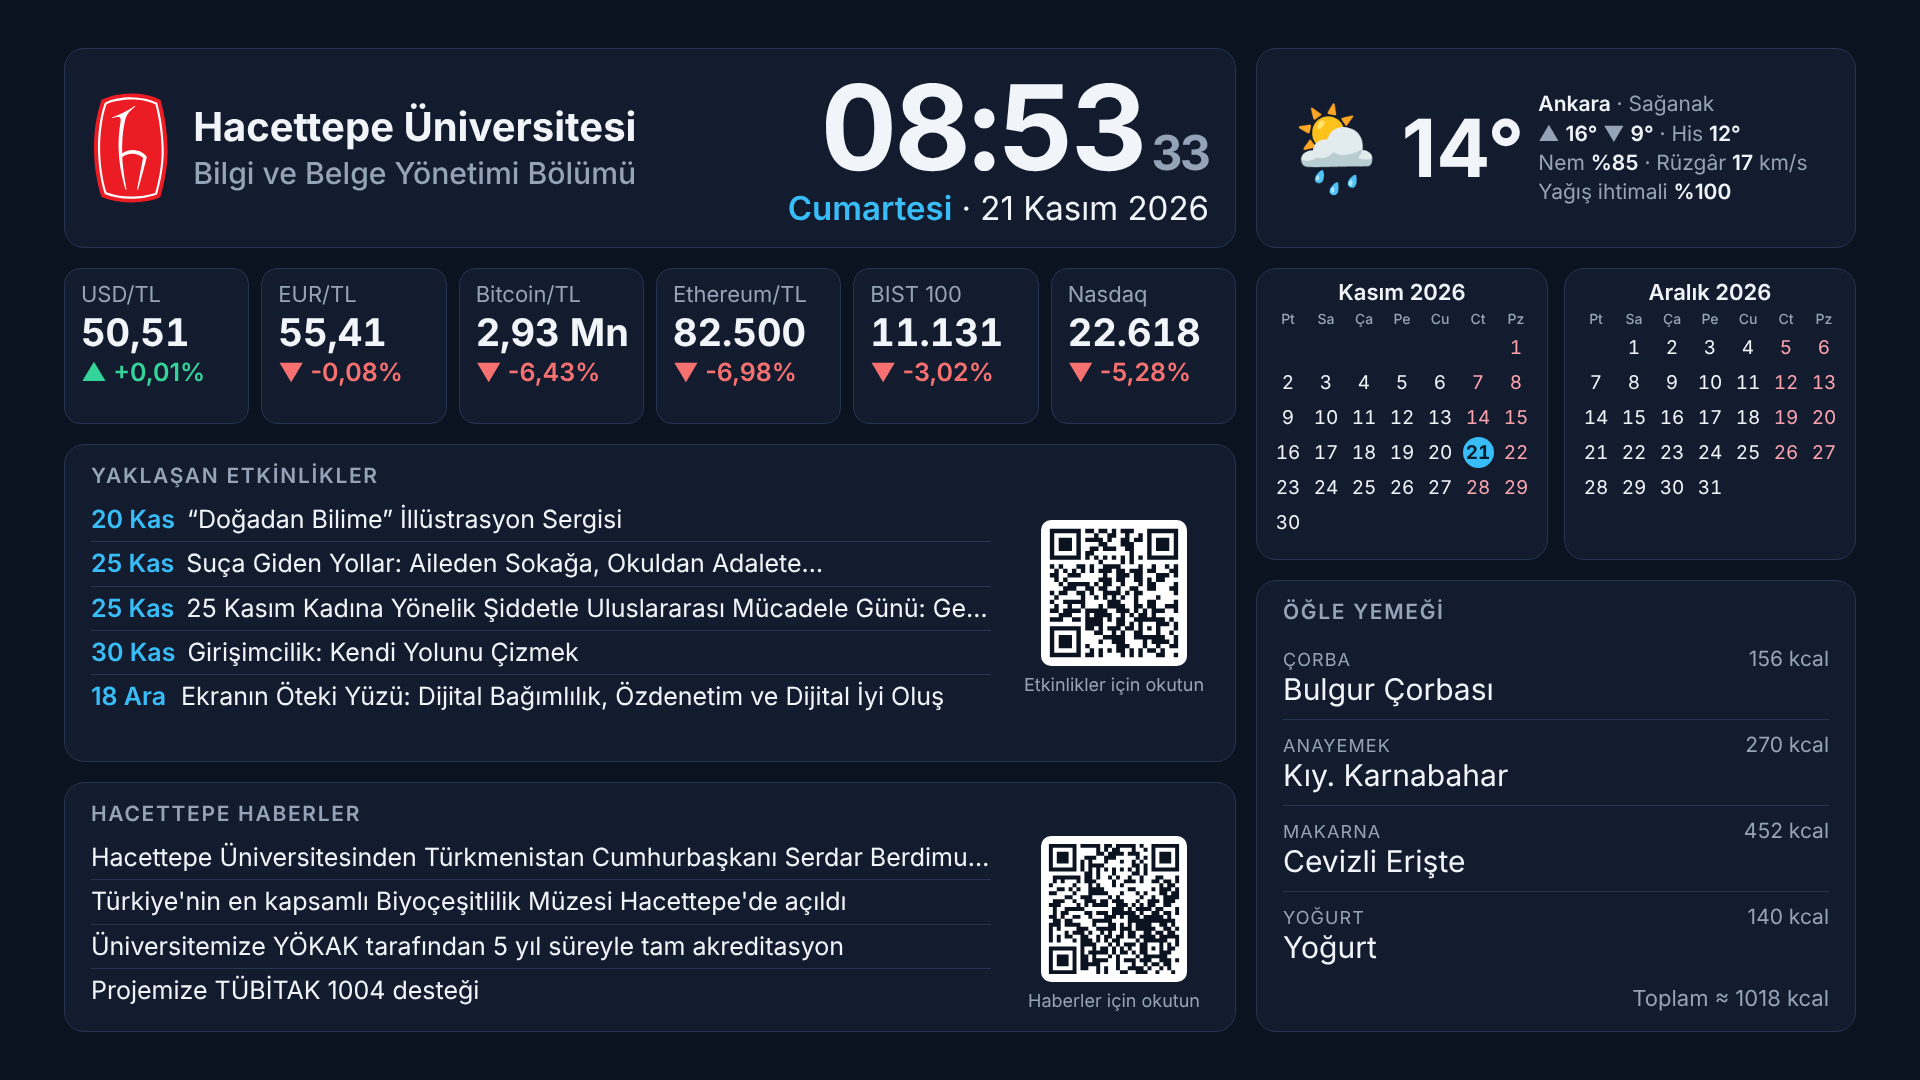
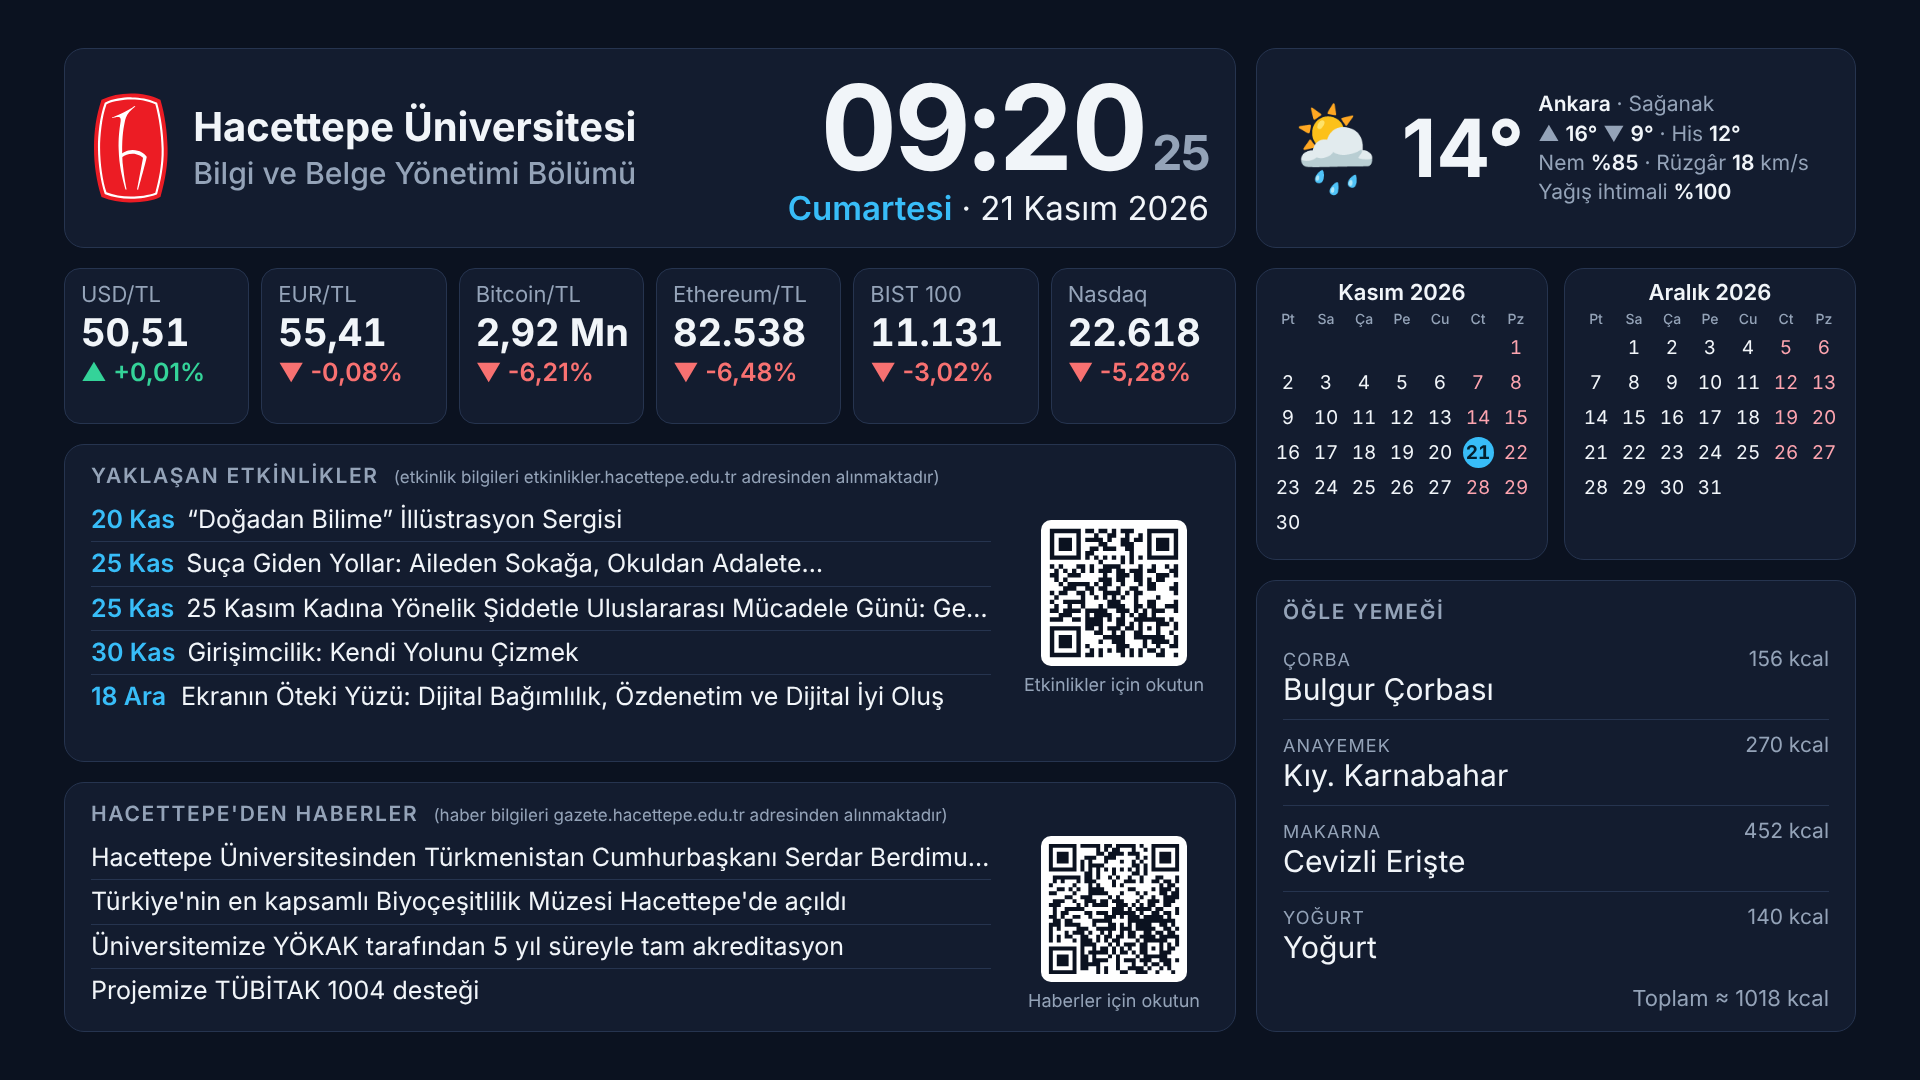
Add source notes to events and news headings
Claude-Session: https://claude.ai/code/session_01Mub7XH25CYshn6vjLCW2Rh

diff --git a/bilgiekrani/static/index.html b/bilgiekrani/static/index.html
@@ -60,6 +60,8 @@
   .cal td.we{color:#fda4af}
   .cal td.today span{display:inline-block;width:31px;line-height:31px;border-radius:50%;background:var(--accent);color:#04202e;font-weight:700}
 
+  h2 small{font-size:17px;font-weight:400;letter-spacing:0;text-transform:none;margin-left:8px}
+
   /* yemek */
   #lunch ul{list-style:none}
   #lunch li{display:flex;justify-content:space-between;align-items:baseline;gap:12px;padding:12px 0;border-bottom:1px solid var(--line);font-size:30px}
@@ -101,7 +103,7 @@
     <section id="markets"></section>
 
     <section class="panel" id="events">
-      <h2>Yaklaşan Etkinlikler</h2>
+      <h2>Yaklaşan Etkinlikler <small>(etkinlik bilgileri etkinlikler.hacettepe.edu.tr adresinden alınmaktadır)</small></h2>
       <div class="withqr">
         <div class="list" id="eventsBody"></div>
         <div class="qr"><img src="/static/qr_etkinlik.svg" alt="Etkinlikler karekodu"><span>Etkinlikler için okutun</span></div>
@@ -109,7 +111,7 @@
     </section>
 
     <section class="panel" id="news">
-      <h2>Hacettepe Haberler</h2>
+      <h2>Hacettepe'den Haberler <small>(haber bilgileri gazete.hacettepe.edu.tr adresinden alınmaktadır)</small></h2>
       <div class="withqr">
         <div class="list" id="newsBody"></div>
         <div class="qr"><img src="/static/qr_haber.svg" alt="Haberler karekodu"><span>Haberler için okutun</span></div>
